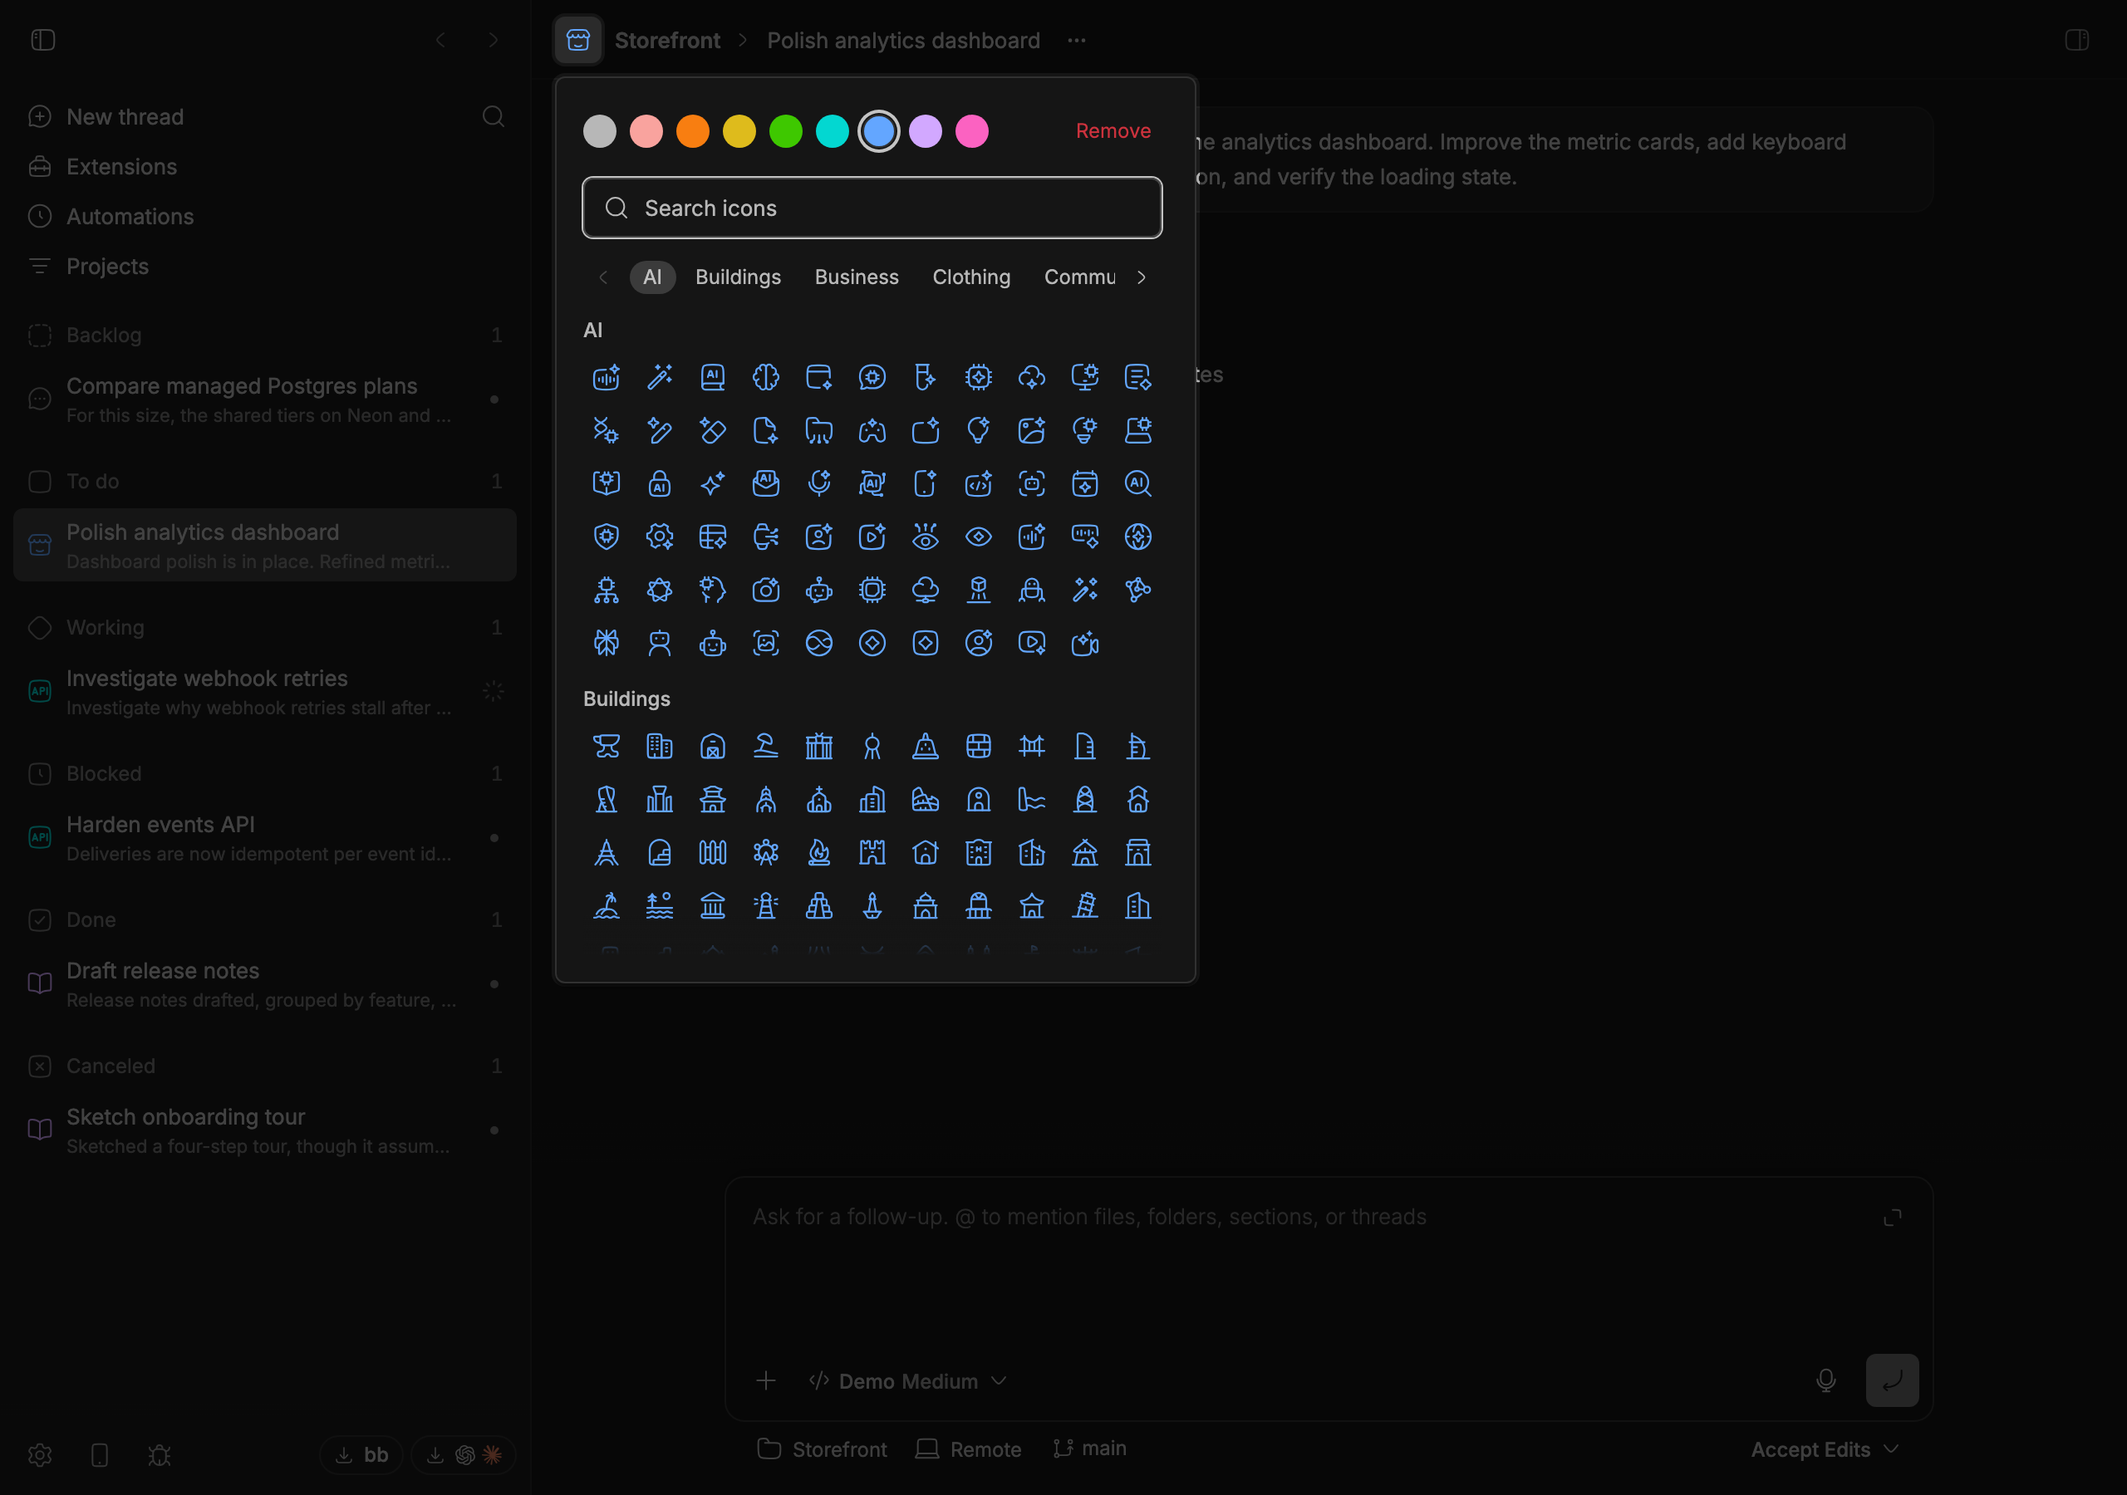
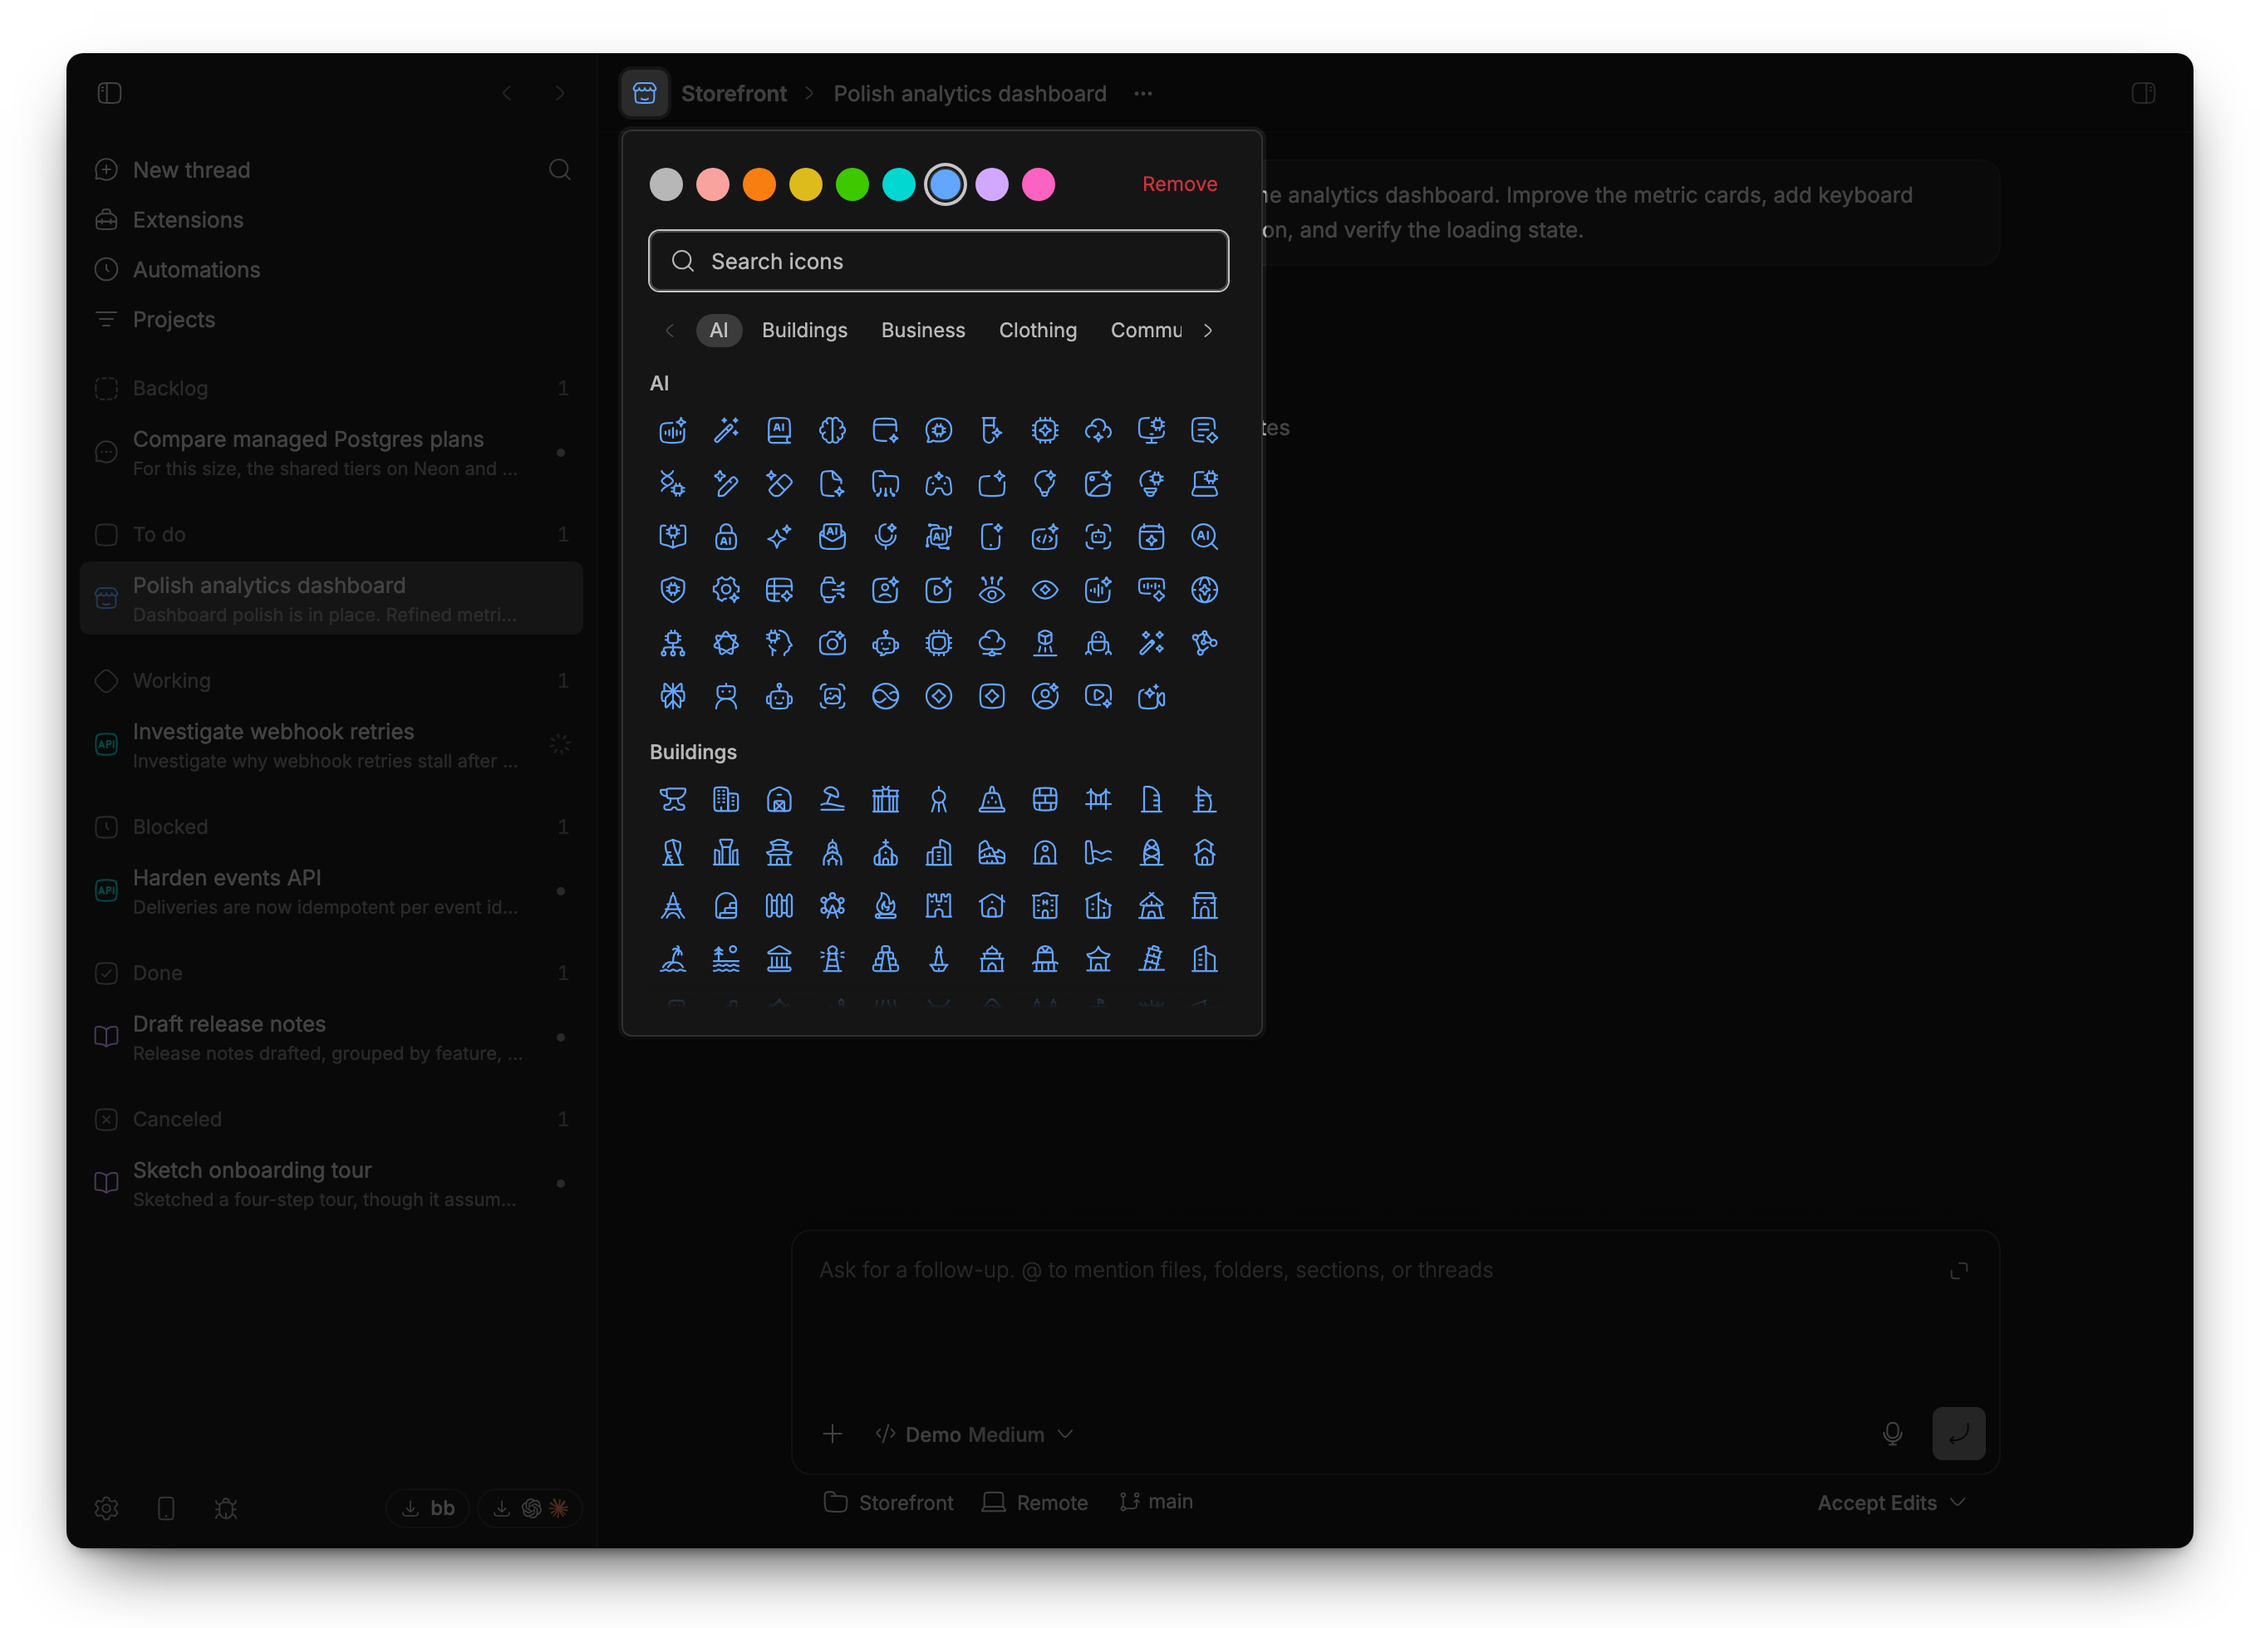
Put the window shots in a window
The web client draws bb's chrome but not its silhouette, so a
full-window capture ended at a hard rectangular edge that reads as a
slab of pixels rather than as an app. Each window shot now carries the
frame the capture is missing: macOS's own 10px corner radius, a hairline
along the edge, and a shadow, on transparent margins that hold the
shadow and nothing else.

The hairline and the shadow are tuned per mode, because the same pair is
read on a white page and on a near-black one: on white the shadow does
the work and the hairline barely shows, and on GitHub's dark background
it is the other way around. No traffic lights — bb sits those over the
top of its own sidebar, where this capture shows the sidebar toggle
instead, and painting them in would put real controls in the wrong
place.

Cards stay flat. A card is a crop of an interface, not a window, and
rounding its corners would claim it is the whole app.

Changed region(s): [[0.0, 0.0, 1.0, 1.0], [0.2812, 0.2489, 0.5625, 0.6222]]

diff --git a/AGENTS.md b/AGENTS.md
@@ -20,6 +20,7 @@
 
 - Every plugin screenshot comes from `npm run screenshots`, which boots a throwaway bb, installs every plugin in this repository, seeds one shared fixture, and captures each shot in light and dark. Never edit or replace the files it writes by hand; change `scripts/screenshots/shots.mjs` and recapture.
 - Each shot is captured twice from the same arranged window, with the same shade and cutouts: `screenshot-<mode>.png` is bb's whole default window and belongs in the plugin's own README, and `card-<mode>.png` is cropped to one fixed width and belongs in the root README's table, where a shared crop width is what keeps the five cells at one zoom level. A shot chooses where its card sits, not how large it is.
+- Only the window shots carry a window frame — macOS's corner radius, a hairline, and a shadow, on transparent margins. A card is a crop of an interface, not a window, so framing one would claim it is the whole app.
 - Capturing needs macOS, the bb desktop app, and `npx playwright install chromium`. `npm run check:screenshots` needs neither, and CI runs it to report a screenshot whose plugin changed after it was captured.
 
 ## Testing
